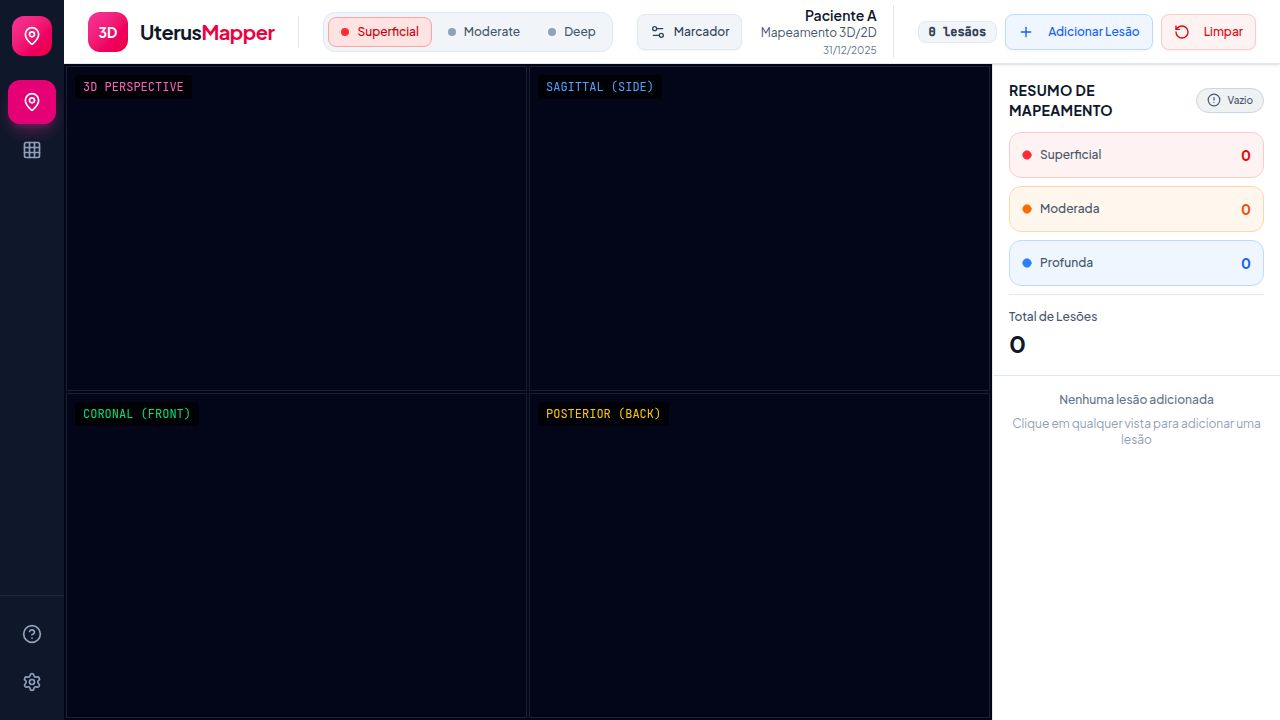
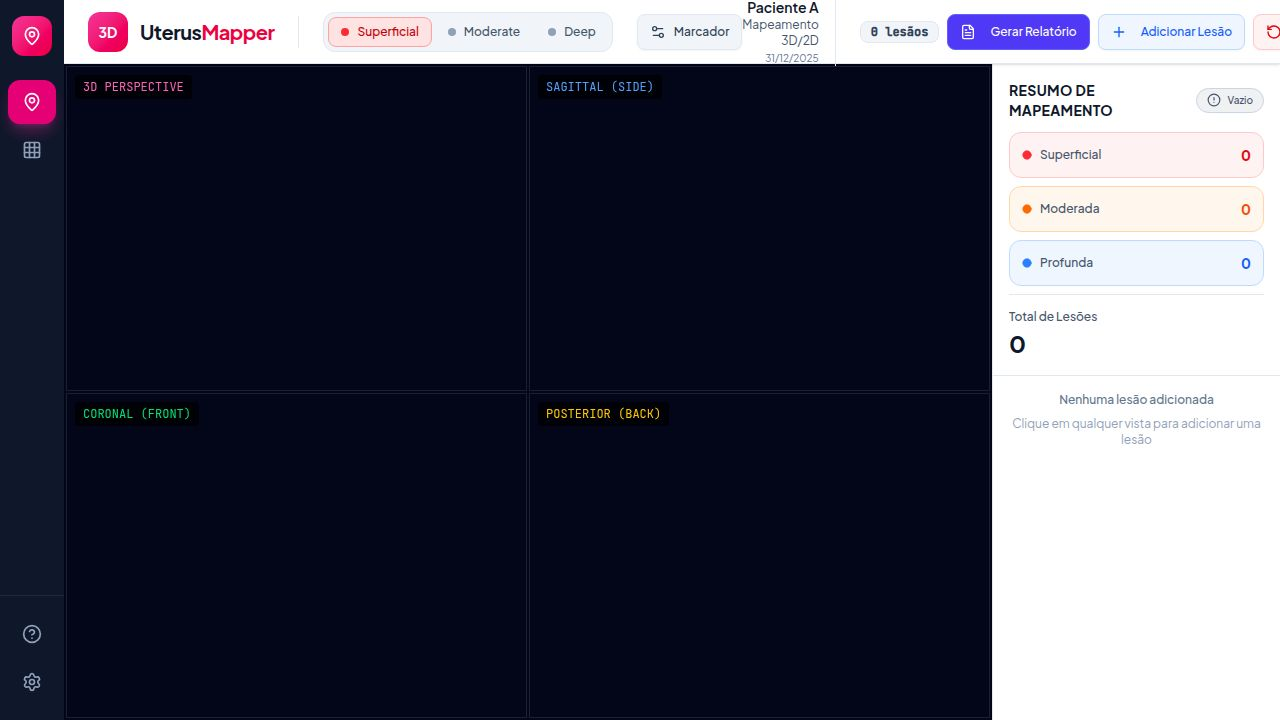
Make it possible to generate and view reports with 2D images
Update the report store to persist report data and integrate with local storage. Modify the home page to create and save new reports with 2D image data, and update the public report page to fetch and display these stored reports.

Replit-Commit-Author: Agent
Replit-Commit-Session-Id: 4cb8487f-3aed-403e-bdfb-3855dc899112
Replit-Commit-Checkpoint-Type: intermediate_checkpoint
Replit-Commit-Event-Id: 02e616b3-1b3b-4fd7-b6f3-2fa3864c7528
Replit-Commit-Screenshot-Url: https://storage.googleapis.com/screenshot-production-us-central1/96b3c62b-08ed-49a3-ad12-71b2ce4d087b/4cb8487f-3aed-403e-bdfb-3855dc899112/HeCzrqk
Replit-Helium-Checkpoint-Created: true

Changed region(s): [[0.5625, 0.0, 1.0, 0.0917]]

diff --git a/client/src/pages/PublicReport.tsx b/client/src/pages/PublicReport.tsx
@@ -3,69 +3,40 @@ import { useParams } from 'wouter';
 import * as THREE from 'three';
 import { OrbitControls } from 'three/examples/jsm/controls/OrbitControls.js';
 import { GLTFLoader } from 'three/examples/jsm/loaders/GLTFLoader.js';
-import { ChevronLeft, ChevronRight, X, ZoomIn } from 'lucide-react';
+import { ChevronLeft, ChevronRight, X } from 'lucide-react';
+import { useReportStore, Report } from '@/lib/reportStore';
+import { Severity } from '@/lib/lesionStore';
 
-interface LesionData {
-  id: string;
-  name: string;
-  location: string;
-  severity: 'superficial' | 'moderate' | 'deep';
-  position: { x: number; y: number; z: number };
-}
-
-interface ReportData {
-  reportId: string;
-  patientName: string;
-  examDate: string;
-  patientId: string;
-  images2D: {
-    sagittal: string;
-    coronal: string;
-    posterior: string;
-  };
-  examPhotos: string[];
-  lesions: LesionData[];
-}
-
-const SEVERITY_COLORS = {
+const SEVERITY_COLORS: Record<Severity, { hex: string; label: string; bg: string; text: string; border: string }> = {
   superficial: { hex: '#ec4899', label: 'Superficial', bg: 'bg-pink-100', text: 'text-pink-700', border: 'border-pink-300' },
   moderate: { hex: '#f97316', label: 'Moderada', bg: 'bg-orange-100', text: 'text-orange-700', border: 'border-orange-300' },
   deep: { hex: '#eab308', label: 'Profunda', bg: 'bg-yellow-100', text: 'text-yellow-700', border: 'border-yellow-300' }
-};
-
-const MOCK_REPORT: ReportData = {
-  reportId: 'ABC123',
-  patientName: 'Maria Silva',
-  examDate: '31/12/2024',
-  patientId: 'PAC-2024-0001',
-  images2D: {
-    sagittal: '',
-    coronal: '',
-    posterior: ''
-  },
-  examPhotos: [],
-  lesions: [
-    { id: '1', name: 'Lesão A', location: 'Ovário Direito', severity: 'deep', position: { x: 1.2, y: 0.5, z: 0.3 } },
-    { id: '2', name: 'Lesão B', location: 'Miométrio Anterior', severity: 'moderate', position: { x: -0.8, y: 0.2, z: 1.1 } },
-    { id: '3', name: 'Lesão C', location: 'Ligamento Uterossacro', severity: 'superficial', position: { x: 0.3, y: -0.6, z: -0.9 } }
-  ]
 };
 
 export default function PublicReport() {
   const { id } = useParams<{ id: string }>();
   const canvasRef = useRef<HTMLCanvasElement>(null);
   const containerRef = useRef<HTMLDivElement>(null);
-  const [report, setReport] = useState<ReportData | null>(null);
+  const [report, setReport] = useState<Report | null>(null);
   const [loading, setLoading] = useState(true);
   const [photoIndex, setPhotoIndex] = useState(0);
   const [expandedPhoto, setExpandedPhoto] = useState<string | null>(null);
+  const { getReport, hydrated } = useReportStore();
 
   useEffect(() => {
-    setTimeout(() => {
-      setReport({ ...MOCK_REPORT, reportId: id || 'ABC123' });
+    if (!hydrated) return;
+    
+    if (!id) {
       setLoading(false);
-    }, 500);
-  }, [id]);
+      return;
+    }
+
+    const storedReport = getReport(id);
+    if (storedReport) {
+      setReport(storedReport);
+    }
+    setLoading(false);
+  }, [id, getReport, hydrated]);
 
   useEffect(() => {
     if (!canvasRef.current || !containerRef.current || !report) return;
@@ -202,21 +173,25 @@ export default function PublicReport() {
 
   if (!report) {
     return (
-      <div className="min-h-screen bg-slate-50 flex items-center justify-center">
-        <div className="text-slate-600">Relatório não encontrado</div>
+      <div className="min-h-screen bg-slate-50 flex items-center justify-center flex-col gap-4">
+        <div className="text-slate-600 text-xl font-medium">Relatório não encontrado</div>
+        <p className="text-slate-400 text-sm">O relatório com ID "{id}" não existe ou foi removido.</p>
+        <a href="/" className="text-pink-600 hover:text-pink-700 text-sm underline">Voltar para o início</a>
       </div>
     );
   }
 
+  const examPhotos: string[] = [];
+
   const nextPhoto = () => {
-    if (report.examPhotos.length > 0) {
-      setPhotoIndex((prev) => (prev + 1) % report.examPhotos.length);
+    if (examPhotos.length > 0) {
+      setPhotoIndex((prev) => (prev + 1) % examPhotos.length);
     }
   };
 
   const prevPhoto = () => {
-    if (report.examPhotos.length > 0) {
-      setPhotoIndex((prev) => (prev - 1 + report.examPhotos.length) % report.examPhotos.length);
+    if (examPhotos.length > 0) {
+      setPhotoIndex((prev) => (prev - 1 + examPhotos.length) % examPhotos.length);
     }
   };
 
@@ -240,7 +215,7 @@ export default function PublicReport() {
           </div>
           <div className="text-right">
             <p className="text-xs text-slate-400">Relatório</p>
-            <p className="text-sm font-mono text-slate-600" data-testid="text-report-id">{report.reportId}</p>
+            <p className="text-sm font-mono text-slate-600" data-testid="text-report-id">{report.id}</p>
           </div>
         </div>
       </header>
@@ -294,18 +269,18 @@ export default function PublicReport() {
                 <h2 className="text-sm font-semibold text-slate-700">Fotos do Exame</h2>
               </div>
               <div className="p-4">
-                {report.examPhotos.length > 0 ? (
+                {examPhotos.length > 0 ? (
                   <div className="relative">
                     <div className="aspect-video bg-slate-100 rounded-lg overflow-hidden">
                       <img 
-                        src={report.examPhotos[photoIndex]} 
+                        src={examPhotos[photoIndex]} 
                         alt={`Foto ${photoIndex + 1}`}
                         className="w-full h-full object-cover cursor-pointer"
-                        onClick={() => setExpandedPhoto(report.examPhotos[photoIndex])}
+                        onClick={() => setExpandedPhoto(examPhotos[photoIndex])}
                         data-testid={`img-exam-photo-${photoIndex}`}
                       />
                     </div>
-                    {report.examPhotos.length > 1 && (
+                    {examPhotos.length > 1 && (
                       <>
                         <button 
                           onClick={prevPhoto}
@@ -324,7 +299,7 @@ export default function PublicReport() {
                       </>
                     )}
                     <div className="flex justify-center gap-1.5 mt-3">
-                      {report.examPhotos.map((_, idx) => (
+                      {examPhotos.map((_, idx) => (
                         <button
                           key={idx}
                           onClick={() => setPhotoIndex(idx)}

diff --git a/client/src/lib/reportStore.ts b/client/src/lib/reportStore.ts
@@ -1,27 +1,122 @@
 import { create } from 'zustand';
+import { Lesion, Severity } from './lesionStore';
 
-interface ReportState {
+export interface ReportLesion {
+  id: string;
+  name: string;
+  location: string;
+  severity: Severity;
+  position: { x: number; y: number; z: number };
+}
+
+export interface Report {
+  id: string;
+  patientName: string;
+  patientId: string;
+  examDate: string;
+  examType: string;
   images2D: {
     sagittal: string;
     coronal: string;
     posterior: string;
   };
-  setImages2D: (images: { sagittal: string; coronal: string; posterior: string }) => void;
-  clearImages2D: () => void;
+  lesions: ReportLesion[];
+  createdAt: string;
 }
 
-export const useReportStore = create<ReportState>((set) => ({
-  images2D: {
+interface ReportState {
+  draftImages2D: {
+    sagittal: string;
+    coronal: string;
+    posterior: string;
+  };
+  reports: Record<string, Report>;
+  hydrated: boolean;
+  
+  setDraftImages2D: (images: { sagittal: string; coronal: string; posterior: string }) => void;
+  clearDraftImages2D: () => void;
+  createReport: (report: Omit<Report, 'id' | 'createdAt'>) => string;
+  getReport: (id: string) => Report | undefined;
+  deleteReport: (id: string) => void;
+}
+
+let isHydrated = false;
+
+const loadReportsFromStorage = (): Record<string, Report> => {
+  try {
+    const stored = localStorage.getItem('medicalReports');
+    if (stored) {
+      isHydrated = true;
+      return JSON.parse(stored);
+    }
+  } catch (e) {
+    console.warn('Failed to load reports from localStorage:', e);
+  }
+  isHydrated = true;
+  return {};
+};
+
+const saveReportsToStorage = (reports: Record<string, Report>) => {
+  try {
+    localStorage.setItem('medicalReports', JSON.stringify(reports));
+  } catch (e) {
+    console.warn('Failed to save reports to localStorage:', e);
+  }
+};
+
+const initialReports = loadReportsFromStorage();
+
+export const useReportStore = create<ReportState>((set, get) => ({
+  draftImages2D: {
     sagittal: '',
     coronal: '',
     posterior: '',
   },
-  setImages2D: (images) => set({ images2D: images }),
-  clearImages2D: () => set({
-    images2D: {
+  reports: initialReports,
+  hydrated: isHydrated,
+
+  setDraftImages2D: (images) => set({ draftImages2D: images }),
+  
+  clearDraftImages2D: () => set({
+    draftImages2D: {
       sagittal: '',
       coronal: '',
       posterior: '',
     }
   }),
+
+  createReport: (reportData) => {
+    const id = `RPT-${Date.now().toString(36).toUpperCase()}`;
+    const newReport: Report = {
+      ...reportData,
+      id,
+      createdAt: new Date().toISOString(),
+    };
+    
+    set((state) => {
+      const updatedReports = { ...state.reports, [id]: newReport };
+      saveReportsToStorage(updatedReports);
+      return { reports: updatedReports };
+    });
+    
+    return id;
+  },
+
+  getReport: (id) => {
+    return get().reports[id];
+  },
+
+  deleteReport: (id) => {
+    set((state) => {
+      const { [id]: removed, ...rest } = state.reports;
+      saveReportsToStorage(rest);
+      return { reports: rest };
+    });
+  },
 }));
+
+export const images2D = {
+  get sagittal() { return useReportStore.getState().draftImages2D.sagittal; },
+  get coronal() { return useReportStore.getState().draftImages2D.coronal; },
+  get posterior() { return useReportStore.getState().draftImages2D.posterior; },
+};

diff --git a/client/src/pages/Home.tsx b/client/src/pages/Home.tsx
@@ -1,4 +1,5 @@
 import { useRef, useState } from 'react';
+import { useLocation } from 'wouter';
 import { Uterus3D, Uterus3DRef } from '@/components/Uterus3D';
 import { useLesionStore, Severity, Lesion } from '@/lib/lesionStore';
 import { useReportStore } from '@/lib/reportStore';
@@ -26,6 +27,7 @@ export default function Home() {
     type: 'Mapeamento 3D/2D',
   });
   const uterusRef = useRef<Uterus3DRef>(null);
+  const [, setLocation] = useLocation();
 
   const handleAddTestLesion = () => {
     uterusRef.current?.addTestLesion();
@@ -35,28 +37,32 @@ export default function Home() {
     uterusRef.current?.clearLesions();
   };
 
-  const { images2D } = useReportStore();
+  const { draftImages2D, createReport, clearDraftImages2D } = useReportStore();
 
   const handleGenerateReport = () => {
-    if (!images2D.sagittal && !images2D.coronal && !images2D.posterior) {
-      alert('Aviso: Nenhuma imagem das vistas 2D foi capturada ainda. Visite a página 2D primeiro.');
+    if (!draftImages2D.sagittal && !draftImages2D.coronal && !draftImages2D.posterior) {
+      const proceed = confirm('Nenhuma imagem 2D foi capturada ainda. Deseja continuar mesmo assim?');
+      if (!proceed) return;
     }
 
-    const reportData = {
-      patient: examInfo.patient,
-      date: examInfo.date,
-      type: examInfo.type,
-      images2D: images2D,
-      lesions: lesions.map(l => ({
+    const reportId = createReport({
+      patientName: examInfo.patient,
+      patientId: `PAC-${Date.now().toString(36).toUpperCase()}`,
+      examDate: examInfo.date,
+      examType: examInfo.type,
+      images2D: draftImages2D,
+      lesions: lesions.map((l, idx) => ({
         id: l.id,
+        name: `Lesão ${String.fromCharCode(65 + idx)}`,
+        location: l.location || (l.severity === 'superficial' ? 'Região Superficial' : l.severity === 'moderate' ? 'Região Moderada' : 'Região Profunda'),
         severity: l.severity,
-        location: l.severity === 'superficial' ? 'Superficial' : l.severity === 'moderate' ? 'Moderada' : 'Profunda',
         position: l.position
       })),
-      timestamp: new Date().toISOString()
-    };
-    console.log('Dados completos do relatório (incluindo imagens 2D):', reportData);
-    alert('Relatório gerado no console (F12) com imagens 2D!');
+    });
+
+    console.log('Relatório criado com ID:', reportId);
+    clearDraftImages2D();
+    setLocation(`/relatorio/${reportId}`);
   };
 
   const getLesionCount = (sev: Severity) => lesions.filter(l => l.severity === sev).length;

diff --git a/client/src/pages/Vistas2D.tsx b/client/src/pages/Vistas2D.tsx
@@ -43,7 +43,7 @@ export default function Vistas2D() {
   const [drawingSize, setDrawingSize] = useState(3);
   const [selectedViewsForExport, setSelectedViewsForExport] = useState<Set<ViewType>>(new Set());
   const [focusedView, setFocusedView] = useState<ViewType | null>(null);
-  const { setImages2D } = useReportStore();
+  const { setDraftImages2D } = useReportStore();
 
   useEffect(() => {
     const captureImages = () => {
@@ -52,12 +52,12 @@ export default function Vistas2D() {
         coronal: canvasRefs.current['coronal']?.toDataURL('image/png') || '',
         posterior: canvasRefs.current['posterior']?.toDataURL('image/png') || '',
       };
-      setImages2D(images);
+      setDraftImages2D(images);
     };
 
     const interval = setInterval(captureImages, 2000);
     return () => clearInterval(interval);
-  }, [setImages2D]);
+  }, [setDraftImages2D]);
 
   const canvasRefs = useRef<Record<ViewType, HTMLCanvasElement | null>>({
     'sagittal-avf': null,
